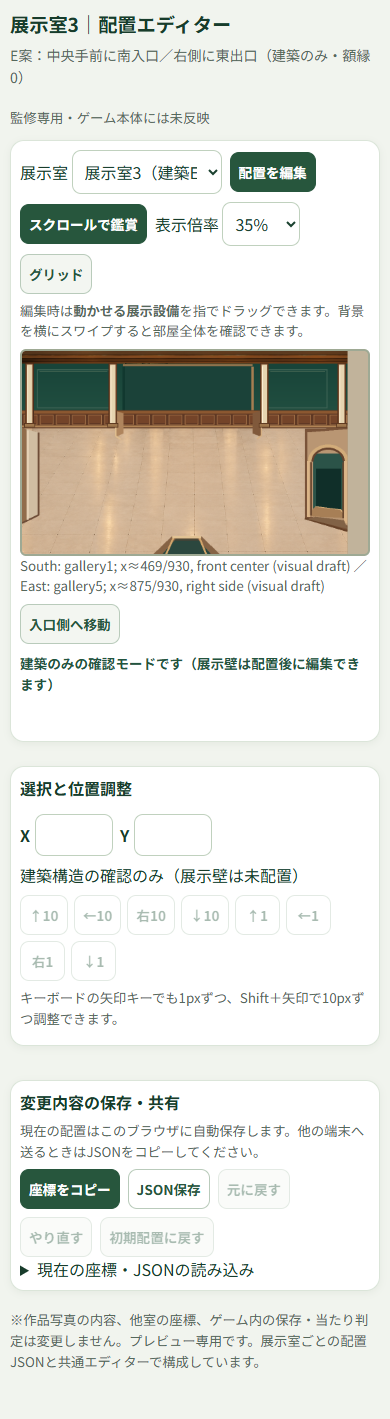
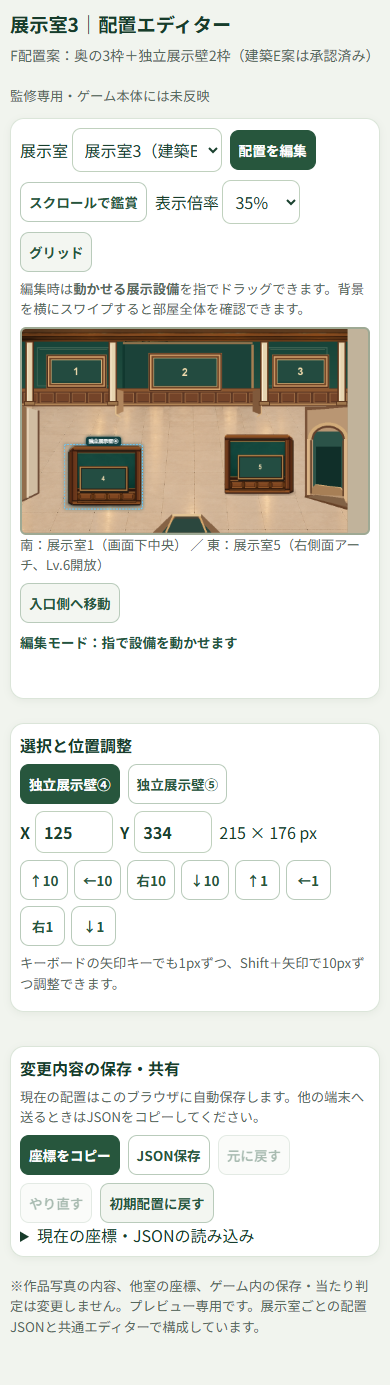
feat(a18): record gallery3 E architecture approval and preview F five-frame proposal

diff --git a/editor.js b/editor.js
@@ -146,7 +146,7 @@ async function loadRoom(id){
   btn.addEventListener('click',()=>choose(obj.id));pick.append(btn);
  }
  layerRoot.append(createImage(room.foreground,10));
- $('zoom').value=(!objectIds.length&&window.innerWidth<500)?'.35':'.8';
+ $('zoom').value=((!objectIds.length||room.id==='gallery3')&&window.innerWidth<500)?'.35':'.8';
  zoomTo(Number($('zoom').value));render();setMode(objectIds.length?'edit':'pan');
  history=[];future=[];render();requestAnimationFrame(toEntrance);
 }

diff --git a/qa/gallery3_frames_F.py b/qa/gallery3_frames_F.py
@@ -1,0 +1,63 @@
+"""Gallery3 F: 5-frame placement on approved E architecture, proposal only."""
+from pathlib import Path
+from PIL import Image, ImageDraw, ImageFont
+import json, hashlib
+
+root=Path(__file__).resolve().parents[1]
+f=root/"rooms/gallery3"
+original=f/"gallery3_architecture_only_E.png"
+approved_digest=hashlib.sha256(original.read_bytes()).hexdigest()
+base=Image.open(original).convert("RGBA")
+assert base.size==(930,582)
+background=base.copy()
+d=ImageDraw.Draw(background)
+font=ImageFont.truetype(r"C:\Windows\Fonts\arialbd.ttf",30)
+# Three fixed rear frames, one inside the recessed bay.
+# Door edges, cornice, alcove geometry and entrance remain E unchanged.
+rear=[(1,74,78,162,86),(2,366,73,200,100),(3,719,78,153,86)]
+for n,x,y,w,h in rear:
+    d.rectangle((x-5,y-5,x+w+5,y+h+5),fill="#4c2b1a",outline="#9b673c",width=2)
+    d.rectangle((x,y,x+w,y+h),fill="#714526",outline="#d5a26c",width=4)
+    d.rectangle((x+9,y+9,x+w-9,y+h-9),fill="#234b40",outline="#d7bb83",width=2)
+    d.line((x+11,y+h-13,x+w-11,y+h-13),fill="#15382f",width=2)
+    d.text((x+w/2,y+h/2),str(n),fill="#f5deb0",font=font,anchor="mm")
+background_path=f/"gallery3_layout_F_rear_frames.png"
+background.save(background_path)
+# Two existing movable partition materials only. No new fake photo slots.
+objects=[
+ ("wall4","独立展示壁④",125,334,215,176),
+ ("wall5","独立展示壁⑤",579,301,204,176),
+]
+room_path=f/"room.json"
+room=json.loads(room_path.read_text(encoding="utf-8"))
+assert room["id"]=="gallery3"
+assert room["layoutRevision"] in ("gallery3-architecture-only-E-20261028", "gallery3-E-architecture-approved-F-five-frames-unapproved-20261029")
+assert room["objects"]==[] or [o["id"] for o in room["objects"]]==["wall4","wall5"]
+assert all((0<=x<930 and 0<=y<582 and x+w<=930 and y+h<=582) for _,_,x,y,w,h in objects)
+# Foreground overlaps are allowed for future character depth but no south door overlap.
+assert all((x+w<395 or x>540 or y+h<525) for _,_,x,y,w,h in objects)
+assert all((x+w<805 or y>500) for _,_,x,y,w,h in objects)
+room.update({
+ "background":"rooms/gallery3/gallery3_layout_F_rear_frames.png",
+ "objects":[{"id":n,"label":label,"image":f"rooms/gallery3/{n}.png",
+  "rect":{"x":x,"y":y,"w":w,"h":h}} for n,label,x,y,w,h in objects],
+ "subtitle":"F配置案：奥の3枠＋独立展示壁2枠（建築E案は承認済み）",
+ "entrance":"南：展示室1（画面下中央）",
+ "exit":"東：展示室5（右側面アーチ、Lv.6開放）",
+ "layoutRevision":"gallery3-E-architecture-approved-F-five-frames-unapproved-20261029",
+ "status":"E architecture approved; F frame placement pending user review",
+ "notes":"Exactly five exhibit slots: fixed rear 1-3 and movable wall4-5. Preserve original E image. Dedicated guide staff and interaction/collision/depth validation pending.",
+ "previewFocusX":469
+})
+room_path.write_text(json.dumps(room,ensure_ascii=False,indent=2)+"\n",encoding="utf-8")
+# Assemble a full concept image independent of browser.
+view=background.copy()
+for o in room["objects"]:
+    r=o["rect"]
+    a=Image.open(root/o["image"]).convert("RGBA").resize((r["w"],r["h"]),Image.Resampling.LANCZOS)
+    view.alpha_composite(a,(r["x"],r["y"]))
+view.save(f/"gallery3_layout_F_five_frames.png")
+assert hashlib.sha256(original.read_bytes()).hexdigest()==approved_digest
+assert len(rear)+len(objects)==5
+print("PASS gallery3 F assets:",view.size,"fixed",len(rear),"movable",len(objects),
+      "E-preserved-sha256",approved_digest[:12])

diff --git a/qa/check_gallery3_live.py b/qa/check_gallery3_live.py
@@ -19,8 +19,9 @@ try:
    assert res.status==200
    page.wait_for_function('window.__A18_LAYOUT_EDITOR__ && window.__A18_LAYOUT_EDITOR__.getState().roomId === "gallery3"')
    state=page.evaluate('window.__A18_LAYOUT_EDITOR__.getState()')
-   # E is architectural study: deliberately zero fixtures until layout approval.
-   assert len(state['objects'])==0,state
+   # F layout draft: 3 baked rear frames plus 2 movable walls, total exactly 5.
+   assert len(state['objects'])==2,state
+   assert set(state['objects'])=={'wall4','wall5'},state
    assert state['roomId']=='gallery3',state
    assert page.locator('#zoom').input_value()==('.35' if width==390 else '.8')
    assert all(e.evaluate('e=>e.complete && e.naturalWidth>0') for e in page.locator('#stage img').all())

diff --git a/rooms/gallery3/LAYOUT_E_APPROVAL_AND_F_PROPOSAL_20261029.md b/rooms/gallery3/LAYOUT_E_APPROVAL_AND_F_PROPOSAL_20261029.md
@@ -1,0 +1,26 @@
+# A18｜展示室3 E建築承認とF展示配置案
+
+記録日：2026-10-29
+
+## 建築 E：ユーザー承認済み
+ユーザー発言「凹み面白いね！いいと思う！」を受け、展示室3のE案**建築の形（中央の奥まった壁、南入口は中央手前、東出口は右側のアーチ、西・北は壁）**をレイアウト検討の基準として採用。
+
+この承認は展示枠の位置、ゲーム本体素材の仕上げ、当たり判定の承認ではない。
+
+### E案の正本
+- `gallery3_architecture_only_E.png` は変更しない
+- 館内接続：南→展示室1、東→展示室5。内部 roomId=3 は維持。
+- 5枠の正本設備ID、女性スタッフ人数、保存方式、通路ロジックは変更しない。
+
+## F案：展示物5枠の**未承認配置ラフ**
+- 奥の固定壁に1、2、3（うち2が凹み中央）、独立展示壁に4、5。
+- 奥の3枚は `gallery3_layout_F_rear_frames.png` に焼き込み。これとE案の原画は別ファイル。
+- 独立展示壁4： (x=125,y=334,w=215,h=176)
+- 独立展示壁5： (x=579,y=301,w=204,h=176)
+- 単独全景 `gallery3_layout_F_five_frames.png`
+- 作品数 = 3 + 2 = **5枠**、追加・削除なし。
+- 入口手前（中央）と東出口への経路を建築ラフ上で妨げないことを意識した。**実歩行や当たり判定、前後レイヤー、スタッフの配置までは未検証。**
+- F案の採否はユーザーの画面監修待ち。E建築案の承認と混同しない。
+
+## Git
+`a18-gallery-layout-editor` の既存 `work/a18-gallery-layout-preview-20261028` で制作。ユーザーから別途明示されるまで issue/mainへ統合しない。ゲームソース・ゲーム公開物には反映しない。
